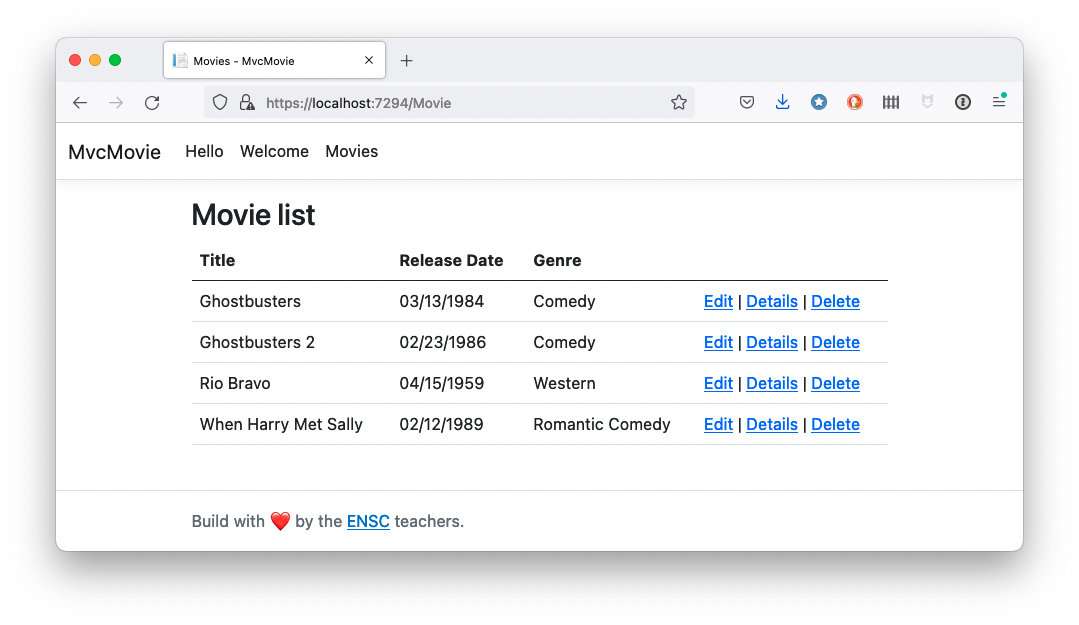
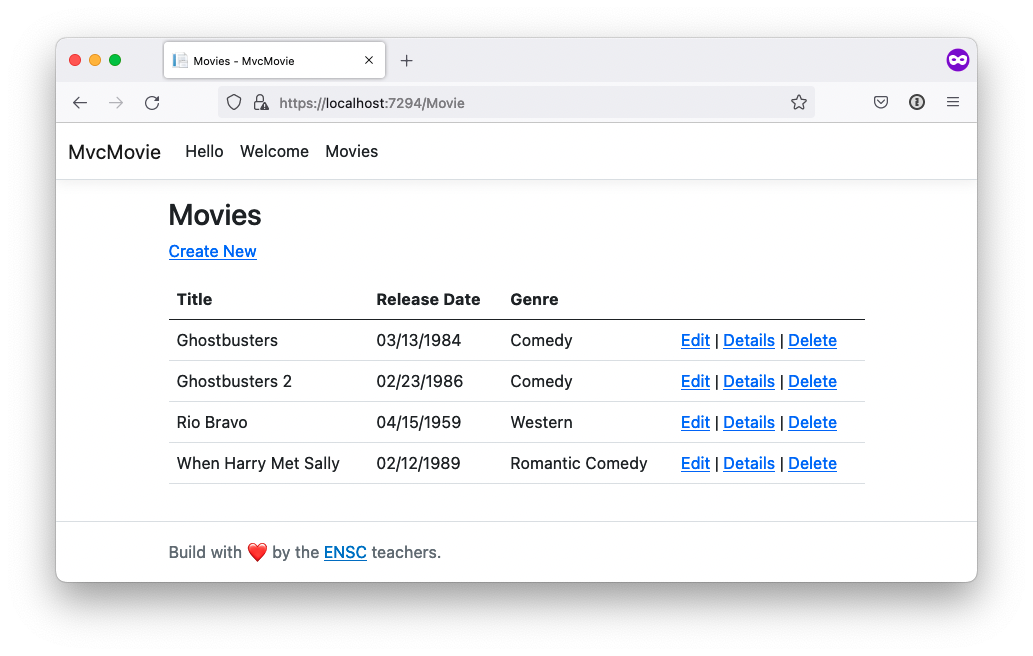
Update view creation chapter

diff --git a/content/slides/asp-net-core/index.md b/content/slides/asp-net-core/index.md
@@ -478,6 +478,7 @@ public class Movie
     [Display(Name = "Release Date"), DataType(DataType.Date)]
     public DateTime ReleaseDate { get; set; }
 
+    [StringLength(30)]
     public string Genre { get; set; } = null!;
 }
 ````
@@ -594,6 +595,12 @@ public class SeedData
                     Genre = "Romantic Comedy",
                 },
                 // ...
+                new Movie
+                {
+                    Title = "Rio Bravo",
+                    ReleaseDate = DateTime.Parse("1959-4-15"),
+                    Genre = "Western"
+                }
             );
 
             // Commit changes into DB
@@ -958,7 +965,26 @@ Envoyer une requête HTTP DELETE vers l'URL <https://localhost:{port}/api/moviea
 
 ---
 
-### View layout
+### Correspondance entre contrôleurs et vues
+
+- Dans une méthode d'action `{ActionName}` d'un contrôleur `Controllers/{CtrlName}Controller`, l'appel de `View()`déclenche le rendu de la vue `Views/{CtrlName}/{ActionName}.cshtml`.
+- Le résultat HTML de ce rendu constitue la réponse HTTP renvoyée par le serveur au client.
+- Nécessite que le contrôleur hérite de `Controller` et non `ControllerBase`.
+
+---
+
+### La syntaxe des vues
+
+- [Razor](https://learn.microsoft.com/en-us/aspnet/core/mvc/views/razor?view=aspnetcore-6.0) est un langage de balisage permettant d'inclure du code C# dans des pages web.
+- Le symbole `@` permet de basculer du HTML au C# dans la page. Il peut être suivi :
+  - d'une expression implicite sans espaces `@maVariable`
+  - d'une expression explicite entre parenthèses `@(nb1 + nb2)`
+  - d'un [mot-clé Razor](https://learn.microsoft.com/en-us/aspnet/core/mvc/views/razor?view=aspnetcore-6.0#razor-reserved-keywords).
+  - d'un bloc de code C# entre accolades `@{...}`.
+
+---
+
+### Structure commune des vues
 
 - Par défaut, toutes les vues partagent une structure commune définie dans le fichier `Views/Shared/_Layout.cshtml`.
 - Dans ce layout, la fonction `@RenderBody()` permet de générer le contenu spécifique de la vue à afficher.
@@ -991,14 +1017,6 @@ Envoyer une requête HTTP DELETE vers l'URL <https://localhost:{port}/api/moviea
 
 ---
 
-### Correspondance entre contrôleurs et vues
-
-- Dans une méthode d'action `{ActionName}` d'un contrôleur `Controllers/{CtrlName}Controller`, l'appel de `View()`déclenche le rendu de la vue `Views/{CtrlName}/{ActionName}.cshtml`.
-- Le résultat HTML de ce rendu constitue la réponse HTTP renvoyée par le serveur au client.
-- Nécessite que le contrôleur hérite de `Controller` et non `ControllerBase`.
-
----
-
 ### Exemple : rendu d'une vue
 
 Dans le fichier `Controllers/HelloController.cs`.
@@ -1023,18 +1041,7 @@ public class HelloController : Controller // not ControllerBase!
 
 ---
 
-### La syntaxe Razor
-
-- [Razor](https://learn.microsoft.com/en-us/aspnet/core/mvc/views/razor?view=aspnetcore-6.0) est un langage de balisage permettant d'inclure du code C# dans des pages web.
-- Le symbole `@` permet de basculer du HTML au C# dans la page. Il peut être suivi :
-  - d'une expression implicite sans espaces `@maVariable`
-  - d'une expression explicite entre parenthèses `@(nb1 + nb2)`
-  - d'un [mot-clé Razor](https://learn.microsoft.com/en-us/aspnet/core/mvc/views/razor?view=aspnetcore-6.0#razor-reserved-keywords).
-  - d'un bloc de code C# entre accolades `@{...}`
-
----
-
-### Possibilités de base
+### Exemple : possibilités de base
 
 Fichier `Views/Hello/Index.cshtml`.
 
@@ -1057,7 +1064,7 @@ Fichier `Views/Hello/Index.cshtml`.
 
 ---
 
-### Structures de contrôle et tableaux
+### Exemple : structures de contrôle et tableaux
 
 ```html
 @{
@@ -1089,7 +1096,7 @@ Fichier `Views/Hello/Index.cshtml`.
 
 ---
 
-### Blocs Razor et fonctions
+### Exemple : blocs Razor et fonctions
 
 ```html
 <p>
@@ -1114,7 +1121,7 @@ Fichier `Views/Hello/Index.cshtml`.
 
 ### Liens
 
-- Comme en HTML, les balises `<a>` sont utilisés pour les créer.
+- Comme en HTML, les balises `<a>` sont utilisées pour les créer.
 - Les attributs `asp-controller`, `asp-action`, `asp-route-id` et `asp-route-{paramName}` permettent la navigation entre actions.
 
 ```html
@@ -1130,7 +1137,7 @@ Fichier `Views/Hello/Index.cshtml`.
 
 ---
 
-### Affichage de la vue d'exemple
+### Exemple : vue générée
 
 ![Hello View](images/helloview.png)
 
@@ -1217,6 +1224,7 @@ public class MovieController : Controller
         _context = context;
     }
 
+    // GET: Movie
     public async Task<IActionResult> Index()
     {
         var movies = await _context.Movies.OrderBy(m => m.Title).ToListAsync();
@@ -1238,7 +1246,10 @@ Fichier `Views/Movie/Index.cshtml`.
     ViewData["Title"] = "Movies";
 }
 
-<h2>Movie list</h2>
+<h2>Movies</h2>
+<p>
+    <a asp-action="Create">Create New</a>
+</p>
 <table class="table">
     <thead>
         <tr>
@@ -1295,41 +1306,221 @@ Fichier `Views/Movie/Index.cshtml`.
 
 ---
 
-### Validation des données
+### Exemple : détails sur un film (contrôleur)
 
-L'annotation des classes du Modèle permet de définir des **règles de validation** qui seront automatiquement vérifiées à la fois côté serveur et côté client.
+Méthode d'action associée à la route `/Movie/Details/{Id}`.
 
 ```csharp
-using System.ComponentModel.DataAnnotations;
-public class LoginViewModel
+using Microsoft.AspNetCore.Mvc;
+using Microsoft.EntityFrameworkCore;
+using MvcMovie.Data;
+
+namespace MvcMovie.Controllers;
+
+public class MovieController : Controller
 {
-    [Required]
-    [EmailAddress]
-    public string Email { get; set; }
+    // ...
+    // GET: Movies/Details/5
+    public async Task<IActionResult> Details(int? id)
+    {
+        if (id == null)
+        {
+            return NotFound();
+        }
 
-    [Required]
-    [DataType(DataType.Password)]
-    public string Password { get; set; }
-
-    [Display(Name = "Remember me?")]
-    public bool RememberMe { get; set; }
+        var movie = await _context.Movies
+            .FirstOrDefaultAsync(m => m.Id == id);
+        if (movie == null)
+        {
+            return NotFound();
+        }
+        return View(movie);
+    }
 }
 ```
 
 ---
 
-### Validation dans le contrôleur
+### Exemple : détails sur un film (vue)
+
+Fichier `Views/Movie/Details.cshtml`.
+
+```html
+@model MvcMovie.Models.Movie
+
+@{
+    ViewData["Title"] = "Details";
+}
+
+<h2>@Html.DisplayFor(model => model.Title)</h2>
+<div>
+    <hr />
+    <dl class="row">
+        <dt class="col-sm-3">
+            @Html.DisplayNameFor(model => model.ReleaseDate)
+        </dt>
+        <dd class="col-sm-9">
+            @Html.DisplayFor(model => model.ReleaseDate)
+        </dd>
+        <dt class="col-sm-3">
+            @Html.DisplayNameFor(model => model.Genre)
+        </dt>
+        <dd class="col-sm-9">
+            @Html.DisplayFor(model => model.Genre)
+        </dd>
+    </dl>
+</div>
+<div>
+    <a asp-action="Edit" asp-route-id="@Model.Id">Edit</a> |
+    <a asp-action="Index">Back to List</a>
+</div>
+```
+
+---
+
+### Exemple : détails sur un film (résultat)
+
+![Movie details](images/moviedetails.png)
+
+---
+
+### Envoi de données depuis une vue
+
+- S'effectue via un **formulaire** dont la soumission déclenche l'envoi au serveur d'une requête HTTP POST.
+- Les champs du formulaire sont implicitement associés aux paramètres de l'action du contrôleur qui reçoit la requête POST.
+- Les [annotations du modèle](https://learn.microsoft.com/en-us/aspnet/core/mvc/models/validation?view=aspnetcore-6.0#built-in-attributes) définissent des **règles de validation** automatiquement vérifiées côté client et utilisables côté serveur.
+
+---
+
+### Exemple : classe métier annotée
 
 ```csharp
-public async Task<IActionResult> Login(LoginViewModel model, string returnUrl = null)
+using System.ComponentModel.DataAnnotations;
+
+namespace MvcMovie.Models;
+
+public class Movie
 {
-    // Check model validation rules
-    if (ModelState.IsValid)
+    public int Id { get; set; }
+
+    public string Title { get; set; } = null!;
+
+    [Display(Name = "Release Date"), DataType(DataType.Date)]
+    public DateTime ReleaseDate { get; set; }
+
+    [StringLength(30)]
+    public string Genre { get; set; } = null!;
+}
+```
+
+---
+
+### Exemple : formulaire d'ajout d'un film (contrôleur)
+
+```csharp
+using Microsoft.AspNetCore.Mvc;
+using Microsoft.EntityFrameworkCore;
+using MvcMovie.Data;
+
+namespace MvcMovie.Controllers;
+
+public class MovieController : Controller
+{
+    // ...
+    // GET: Movie/Create
+    public IActionResult Create()
     {
-      // ... (nominal case: work with the model)
+        return View();
     }
-    // At this point, something failed: redisplay form
-    return View(model);
+}
+```
+
+---
+
+### Exemple : formulaire d'ajout d'un film (vue)
+
+```html
+@model MvcMovie.Models.Movie
+
+@{
+    ViewData["Title"] = "Create";
+}
+
+<h2>Create a Movie</h2>
+<hr />
+<div class="row">
+    <div class="col-md-4">
+        <form asp-action="Create">
+            <div asp-validation-summary="ModelOnly" class="text-danger"></div>
+            <div class="form-group">
+                <label asp-for="Title" class="control-label"></label>
+                <input asp-for="Title" class="form-control" />
+                <span asp-validation-for="Title" class="text-danger"></span>
+            </div>
+            <div class="form-group">
+                <label asp-for="ReleaseDate" class="control-label"></label>
+                <input asp-for="ReleaseDate" class="form-control" />
+                <span asp-validation-for="ReleaseDate" class="text-danger"></span>
+            </div>
+            <div class="form-group">
+                <label asp-for="Genre" class="control-label"></label>
+                <input asp-for="Genre" class="form-control" />
+                <span asp-validation-for="Genre" class="text-danger"></span>
+            </div>
+            <div class="form-group">
+                <input type="submit" value="Create" class="btn btn-primary" />
+            </div>
+        </form>
+    </div>
+</div>
+
+<div>
+    <a asp-action="Index">Back to List</a>
+</div>
+
+@section Scripts {
+@{await Html.RenderPartialAsync("_ValidationScriptsPartial");}
+}
+```
+
+---
+
+### Exemple : formulaire d'ajout d'un film (résultat)
+
+![Movie add](images/moviecreate.png)
+
+---
+
+### Exemple : ajout d'un film (contrôleur)
+
+```csharp
+using Microsoft.AspNetCore.Mvc;
+using Microsoft.EntityFrameworkCore;
+using MvcMovie.Data;
+using MvcMovie.Models;
+
+namespace MvcMovie.Controllers;
+
+public class MovieController : Controller
+{
+    // ...
+    // POST: Movie/Create
+    // To protect from overposting attacks, enable the specific properties you want to bind to.
+    // For more details, see http://go.microsoft.com/fwlink/?LinkId=317598.
+    [HttpPost]
+    [ValidateAntiForgeryToken]
+    public async Task<IActionResult> Create([Bind("Id,Title,ReleaseDate,Genre")] Movie movie)
+    {
+        // Apply model validation rules
+        if (ModelState.IsValid)
+        {
+            _context.Add(movie);
+            await _context.SaveChangesAsync();
+            return RedirectToAction(nameof(Index));
+        }
+        // At this point, something failed: redisplay form
+        return View(movie);
+    }
 }
 ```
 
